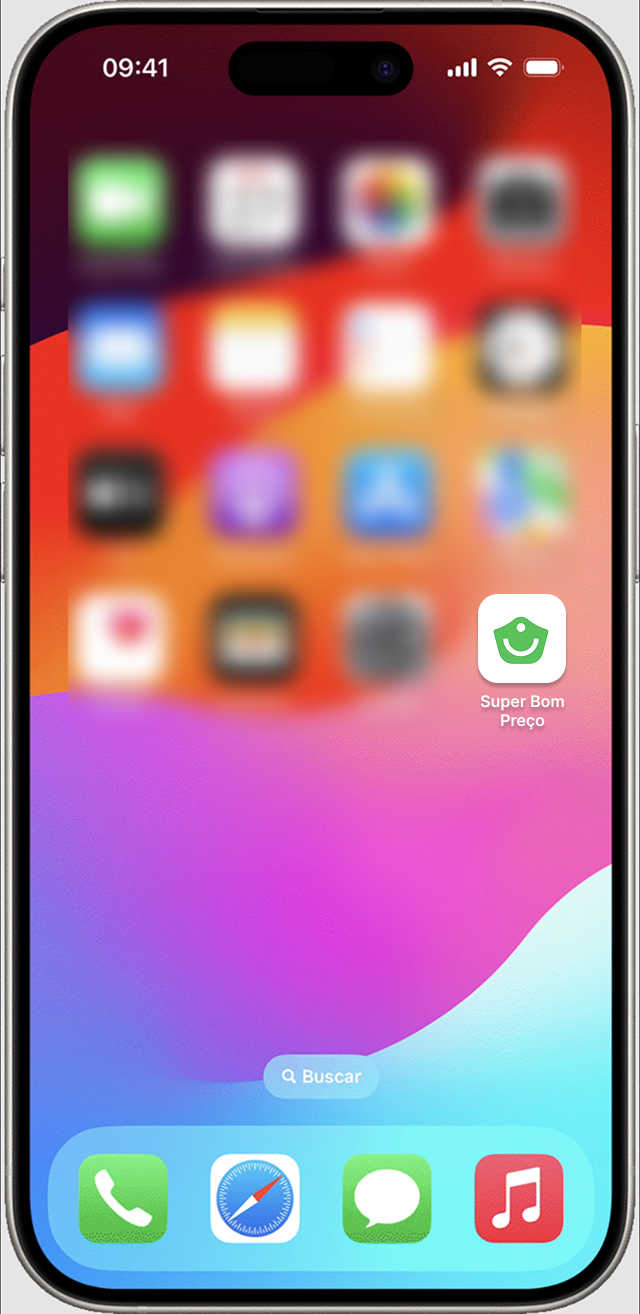
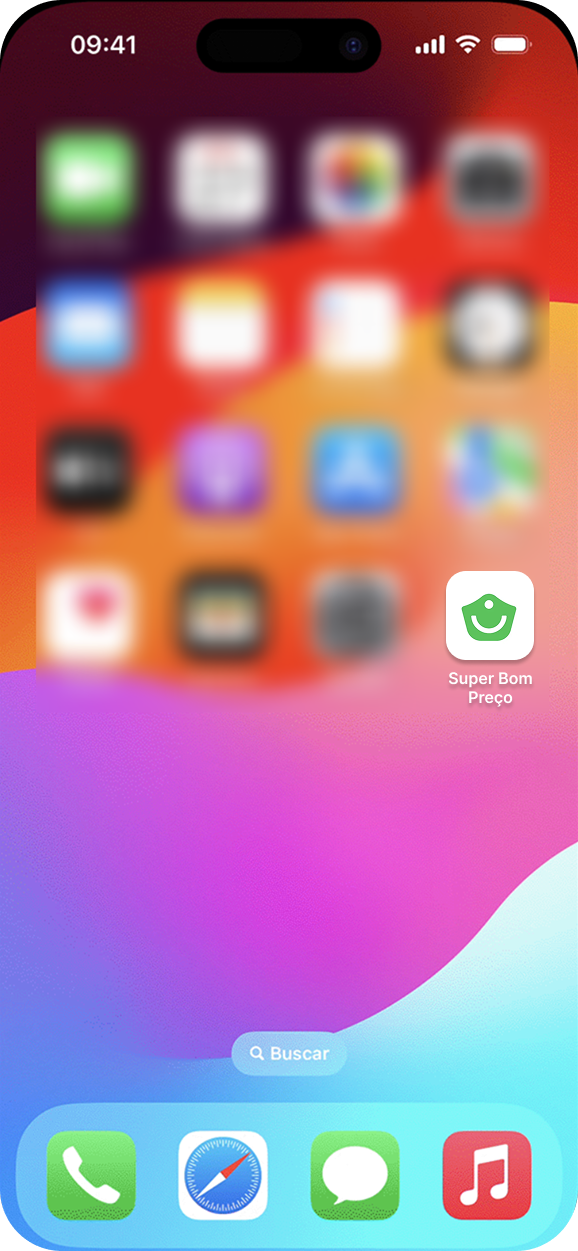
Add border to customer journey images

diff --git a/src/components/CustomerJourneySection.tsx b/src/components/CustomerJourneySection.tsx
@@ -1,8 +1,9 @@
 import { Download, ShoppingCart, QrCode, Coins } from "lucide-react";
 import { useState } from "react";
-import qrScannerMockup from "@/assets/qr-scanner-mockup.jpg";
-import heroPhoneMockup from "@/assets/hero-phone-mockup.jpg";
+import appStoreMockup from "@/assets/app-store-mockup.png";
 import appInstalledMockup from "@/assets/app-installed-mockup.png";
+import qrScannerMockup from "@/assets/qr-scanner-mockup.jpg";
+import cashbackMockup from "@/assets/cashback-mockup.png";
 
 const CustomerJourneySection = () => {
   const [activeStep, setActiveStep] = useState(0);
@@ -12,14 +13,14 @@ const CustomerJourneySection = () => {
       icon: Download,
       title: "Baixa o app da sua marca",
       description: "Cliente encontra seu app personalizado na App Store ou Google Play e faz o download.",
-      image: appInstalledMockup,
+      image: appStoreMockup,
       color: "from-fidelify-dark to-fidelify-primary"
     },
     {
       icon: ShoppingCart,
       title: "Faz compras normalmente",
       description: "Cliente continua comprando como sempre, sem mudanças no processo de compra.",
-      image: heroPhoneMockup,
+      image: appInstalledMockup,
       color: "from-fidelify-primary to-fidelify-light"
     },
     {
@@ -33,7 +34,7 @@ const CustomerJourneySection = () => {
       icon: Coins,
       title: "Recebe cashback para usar na próxima compra",
       description: "Cliente acumula cashback automaticamente e pode usar em compras futuras.",
-      image: heroPhoneMockup,
+      image: cashbackMockup,
       color: "from-fidelify-light to-fidelify-primary"
     }
   ];

diff --git a/src/index.css b/src/index.css
@@ -131,11 +131,11 @@ All colors MUST be HSL.
   }
 
   .phone-frame {
-    @apply relative w-full;
+    @apply relative bg-dark-gray rounded-[3rem] p-3 shadow-large;
   }
 
   .phone-screen {
-    @apply w-full h-auto rounded-lg overflow-hidden;
+    @apply bg-white rounded-[2.5rem] overflow-hidden aspect-[9/19];
   }
 
   /* Hero Section Phone with Border */
